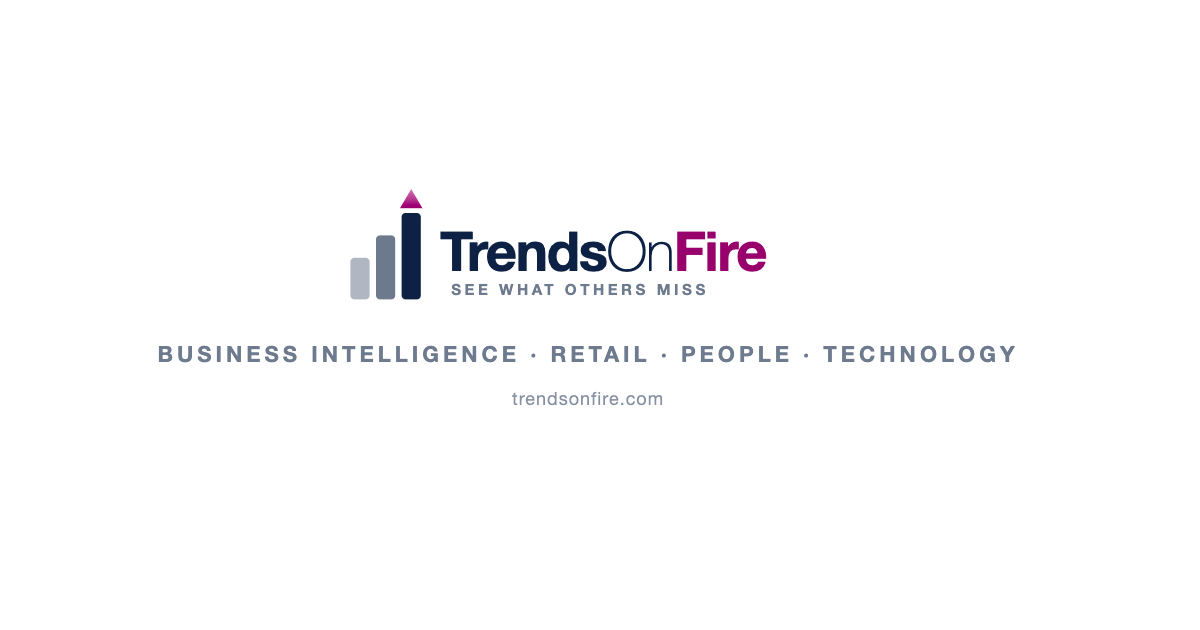
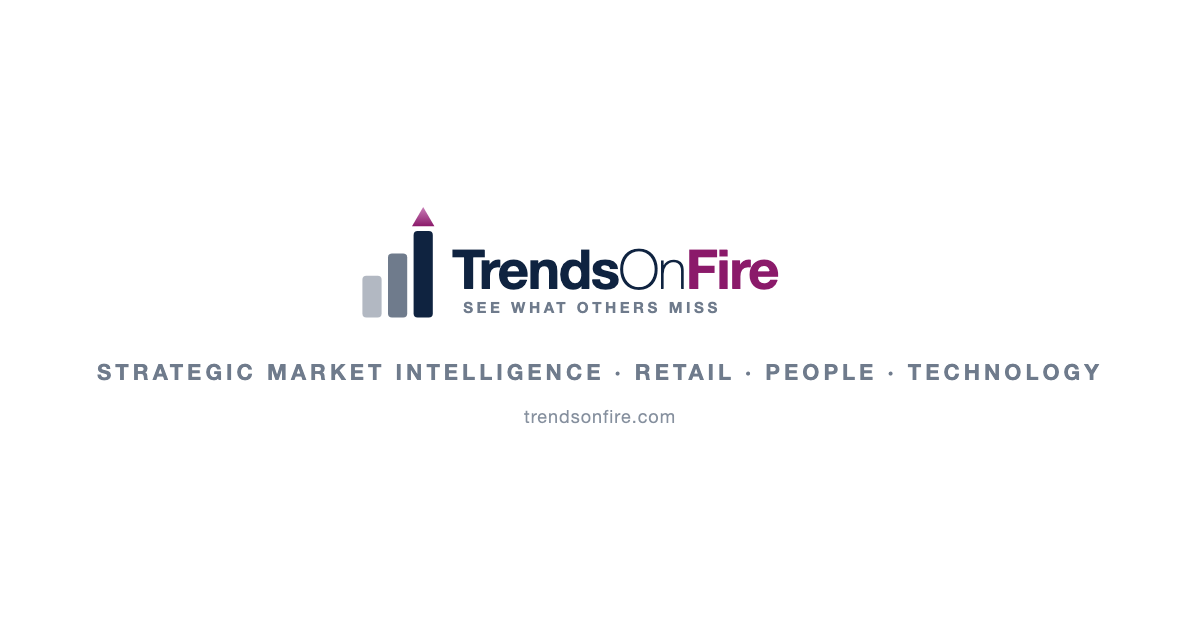
og-image: update tagline 'Business Intelligence' → 'Strategic Market Intelligence'

Changed region(s): [[0.0617, 0.5429, 0.925, 0.6937], [0.2775, 0.3016, 0.6475, 0.5127]]

diff --git a/og-image-template.html b/og-image-template.html
@@ -30,7 +30,7 @@
       <text x="67" y="69" font-family="'Helvetica Neue', Arial, sans-serif" font-size="9.5" fill="#6f7b8c" letter-spacing="2.2" font-weight="600">SEE WHAT OTHERS MISS</text>
     </svg>
   </div>
-  <div class="tagline">Business Intelligence · Retail · People · Technology</div>
+  <div class="tagline">Strategic Market Intelligence · Retail · People · Technology</div>
   <div class="domain">trendsonfire.com</div>
 </body>
 </html>
